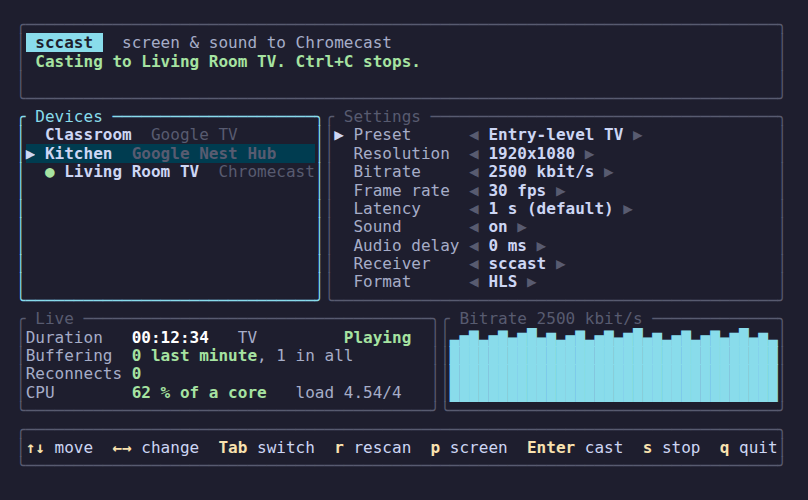
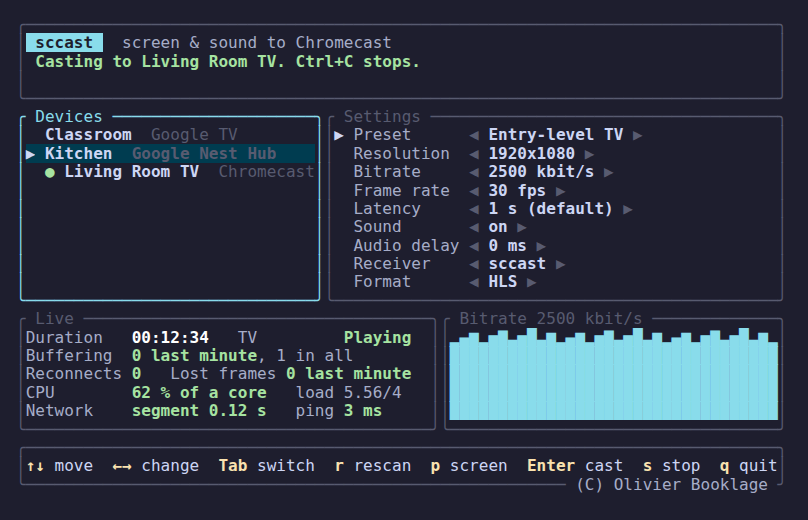
feat(menu): Show the author in the footer

Changed region(s): [[0.0, 0.18, 0.9901, 0.87], [0.0309, 0.03, 0.9592, 0.15], [0.7116, 0.9, 0.9592, 0.96]]

diff --git a/src/menu.rs b/src/menu.rs
@@ -488,7 +488,8 @@ impl Menu {
                 [Span::styled(format!("{key} "), Style::new().fg(Color::Yellow).bold()), Span::raw(format!("{what}  "))]
             })
             .collect();
-        f.render_widget(Paragraph::new(Line::from(help)).block(rounded(false)), footer);
+        let author = Line::from(Span::styled(" (C) Olivier Booklage ", Style::new().fg(Color::Gray))).right_aligned();
+        f.render_widget(Paragraph::new(Line::from(help)).block(rounded(false).title_bottom(author)), footer);
     }
 }
 
